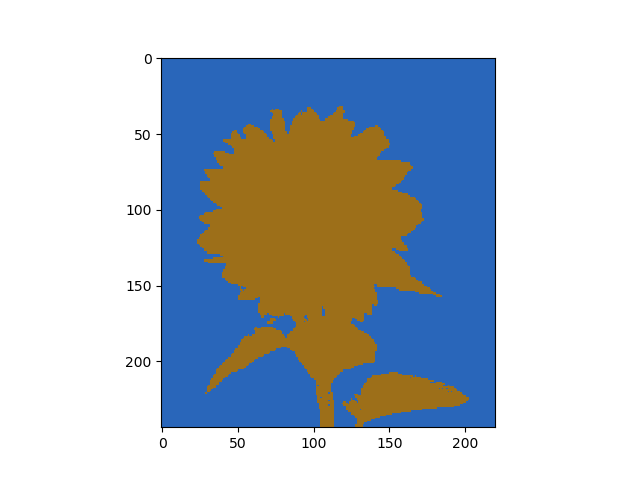
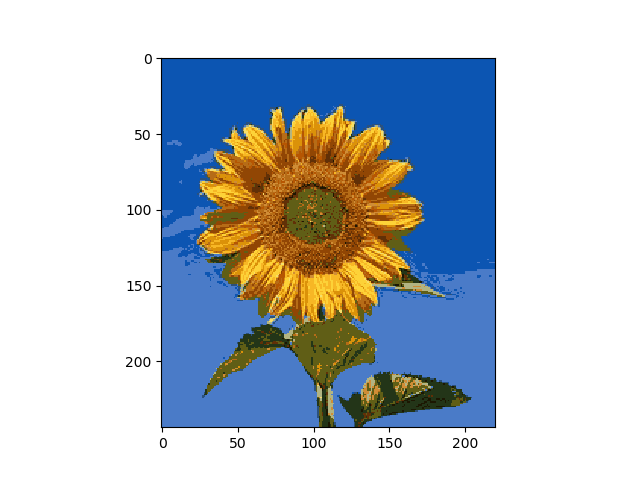
accododated for arbitrary k

diff --git a/main.py b/main.py
@@ -13,17 +13,17 @@ def pprint(arr):
     for element in arr:
         print(element)
 
-def initialPoints():
-    pntOne =[]
-    pntTwo = []
+def initialPoints(k):
+    pnts = []
 
-    for i in range(6):
-        tmpVal  = rnd.randint(0,255)
-        if i < 3:
-            pntOne.append(tmpVal)
-        else:
-            pntTwo.append(tmpVal)
-    return pntOne,pntTwo
+    for i in range(k):
+        tmpPnt = []
+        for j in range(3):
+            tmpVal  = rnd.randint(0,255)
+            tmpPnt.append(tmpVal)
+        pnts.append(tmpPnt)
+
+    return pnts
 
 def pntDistance(pOne, pTwo):
     tmpSum = 0
@@ -50,84 +50,78 @@ def getImage(imName):
 img,imgArr,xPix,yPix,totalPix = getImage('sunFlower.jpg')
 
 # img.show()    #display image
-
+K = 20
 kArr = {1,2,5,10,20}
+points = []
 
-p0 = []
-p1 = []
-avgP0,avgP1 = initialPoints()
+for i in range(K):
+    points.append([])
 
-while((p0 != avgP0) and (p1 != avgP1)):
-    
-    p0 = avgP0
-    p1 = avgP1
+avgs = initialPoints(K)
+
+while(points != avgs):
+    classCnts = []
+    sums = []
+    distances = []
+
+    for i in range(K):
+        points[i] = avgs[i]
+        classCnts.append(0)
+        sums.append([0,0,0])
+        distances.append(0)
 
     classArr = []
-    numP0 = 0
-    numP1 = 0
-
+    
     for row in imgArr:
         classRow = []
         for pixel in row:
-            if ( pntDistance(p0,pixel) <= pntDistance(p1,pixel) ):
-                classRow.append([0])
-                numP0 += 1
-            else:
-                classRow.append([1])
-                numP1 += 1
-        classArr.append(classRow)
+            for i in range(K):
+                distances[i] = pntDistance(points[i],pixel)     # find distance from pixel to each point
+           
+            mDist = min(distances)                              # find closest point
+            mDistIdx = distances.index(mDist)                   # get index of that point
+            classRow.append(mDistIdx)                           # store index of closest point
+            classCnts[mDistIdx] += 1                            # increase counts
 
-    sumP0 = [0,0,0]
-    sumP1 = [0,0,0]
+        classArr.append(classRow)
+    print("CLASS COUNTS: ",end = "")
+    print(classCnts)
+    # pprint(classArr)
+    
     for i in range(yPix):
 
         for j in range(xPix):
         
-            if classArr[i][j][0] == 0:
-                sumP0[0] += int(imgArr[i][j][0])
-                sumP0[1] += int(imgArr[i][j][1])
-                sumP0[2] += int(imgArr[i][j][2])
-                
-            else:
-                sumP1[0] += int(imgArr[i][j][0])
-                sumP1[1] += int(imgArr[i][j][1])
-                sumP1[2] += int(imgArr[i][j][2])
-                
-    avgP0 = [0,0,0]
-    avgP1 = [0,0,0]
+            val = classArr[i][j]
+            sums[val][0] += int(imgArr[i][j][0])
+            sums[val][1] += int(imgArr[i][j][1])
+            sums[val][2] += int(imgArr[i][j][2])
+    
+    print("SUMS: ",end="")
+    print(sums)
 
-    avgP0[0] = sumP0[0]/numP0
-    avgP0[1] = sumP0[1]/numP0
-    avgP0[2] = sumP0[2]/numP0
+    for i in range(K):
+        try:
+            avgs[i][0] = int(sums[i][0]/classCnts[i])
+            avgs[i][1] = int(sums[i][1]/classCnts[i])
+            avgs[i][2] = int(sums[i][2]/classCnts[i])
+        except:
+            avgs[i] = [0,0,0]
 
-    avgP1[0] = sumP1[0]/numP1
-    avgP1[1] = sumP1[1]/numP1
-    avgP1[2] = sumP1[2]/numP1
-
-    print(avgP0,avgP1)
-
+    print("AVERAGES: ",end="")
+    print(avgs)
 
 
 ##########################################################################3
 # saving to file
 ##########################################################################3
 
-avgP0int = [0,0,0]
-avgP1int = [0,0,0]
-
-for i in range(3):
-    avgP0int[i] = int(avgP0[i])
-    avgP1int[i] = int(avgP1[i])
-
 newImg = []
 for i in range(yPix):
     tmpRow = []
     for j in range(xPix):
-        
-        if classArr[i][j][0] == 0:
-            tmpRow.append(avgP0int)
-        else:
-            tmpRow.append(avgP1int)
+        tmpRow.append(avgs[classArr[i][j]])
+      
     newImg.append(tmpRow)
 
 plt.figure()
